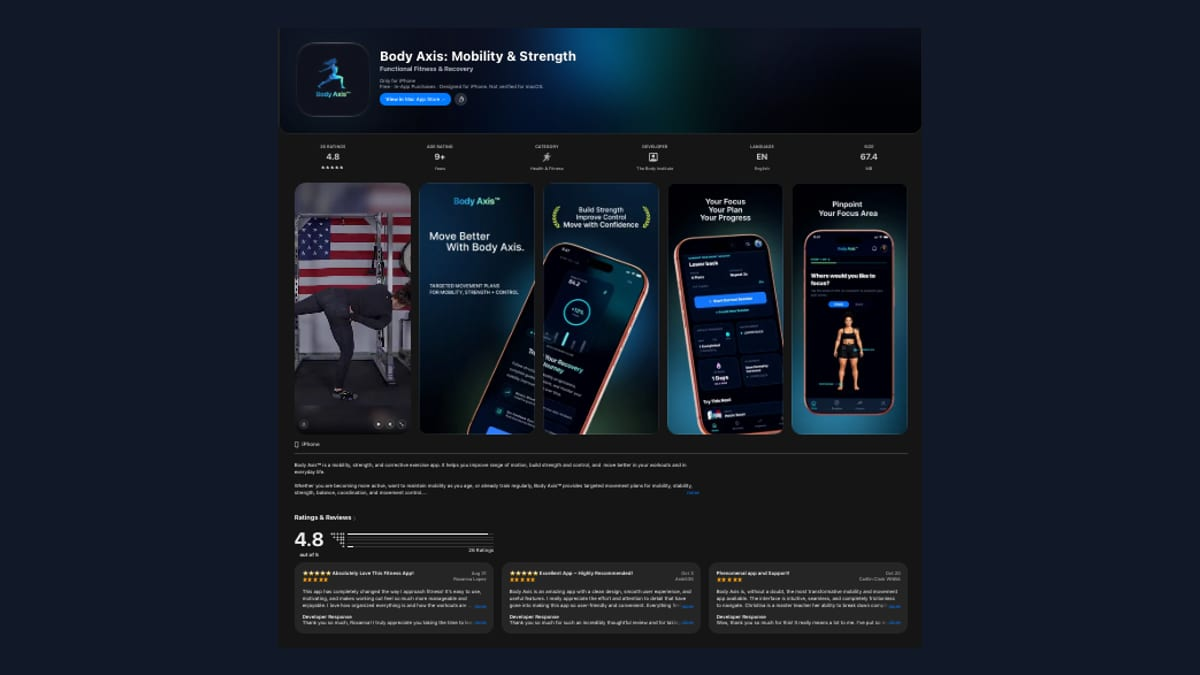
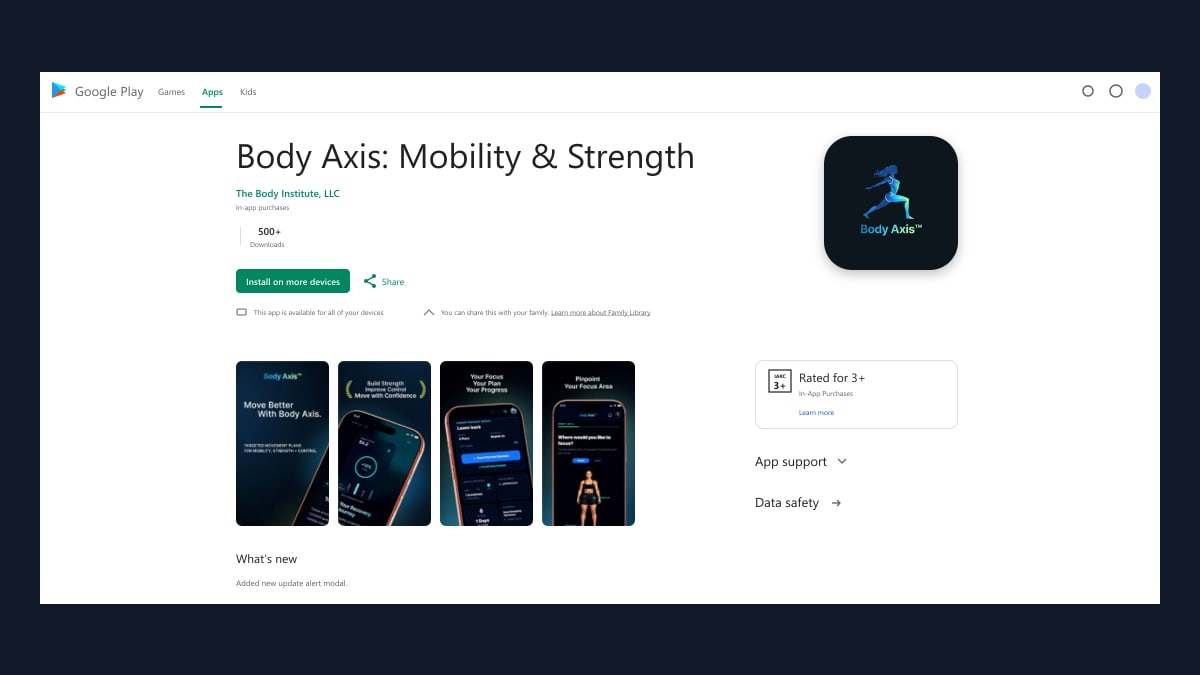
docs: Body Axis card as a Google Play page, matching Fitco

diff --git a/README.md b/README.md
@@ -23,7 +23,7 @@
 <tr>
 <td width="33%" valign="top" align="center">
 <br />
-<a href="https://github.com/mohammad-al-asad/Body-Axis"><img src="./assets/body-axis.jpg" width="90%" alt="Body Axis" /></a>
+<a href="https://github.com/mohammad-al-asad/Body-Axis"><img src="./assets/body-axis.jpg" width="90%" alt="Body Axis on Google Play" /></a>
 <h4>Body Axis</h4>
 <sub>Full-stack fitness app · solo build</sub><br /><br />
 <a href="https://apps.apple.com/us/app/body-axis-mobility-strength/id6761671211"><img src="https://img.shields.io/badge/App_Store-0D96F6?style=flat-square&logo=apple&logoColor=white" alt="App Store" /></a>
